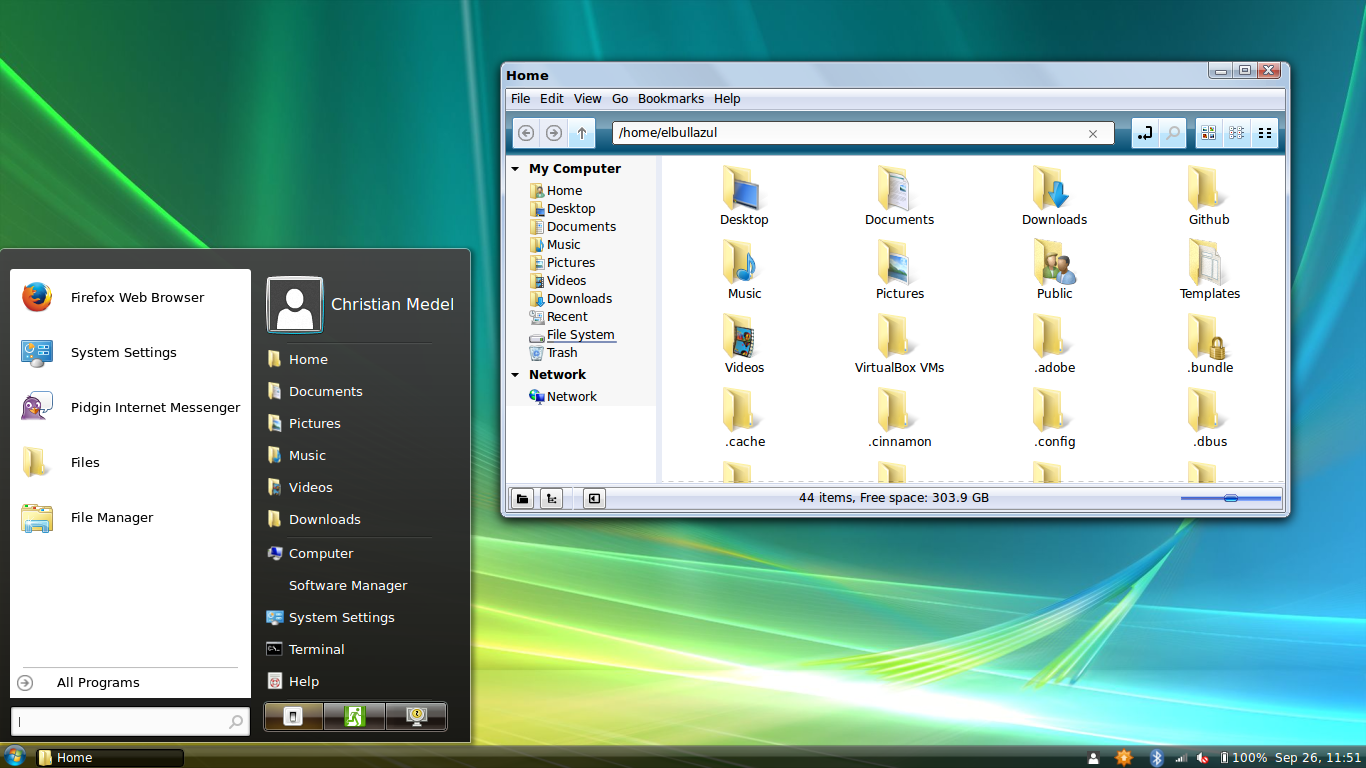
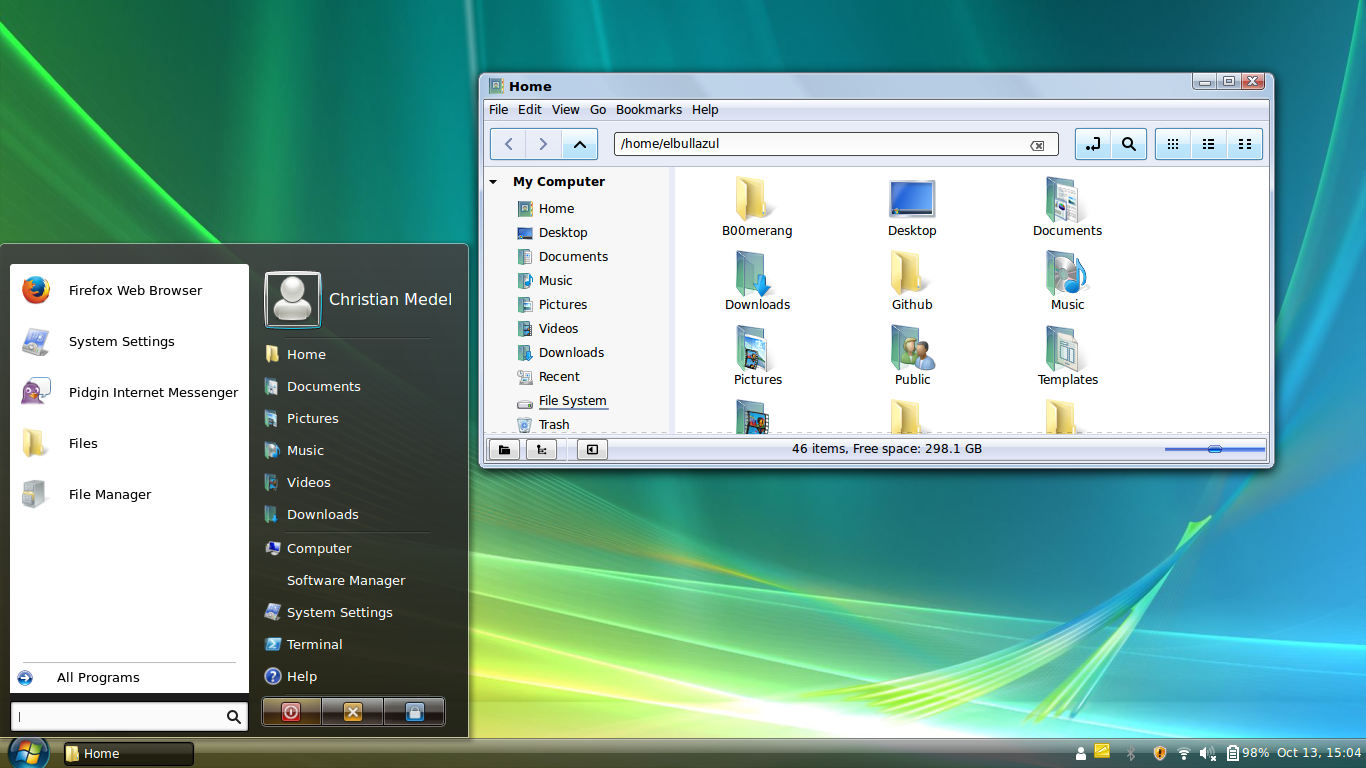
GTK corrections Vista

diff --git a/Windows Vista/gtk-3.0/gtk-widgets.css b/Windows Vista/gtk-3.0/gtk-widgets.css
@@ -91,7 +91,7 @@ GtkPaned {
 }
 
 GtkEventBox {
-    background-color: @bg_color;
+    background-color: transparent;
 }
 
 /*********
@@ -129,7 +129,7 @@ GtkAssistant .sidebar {
 .button {
     -GtkWidget-focus-line-width: 0;
 
-    padding: 5px 6px;
+    padding: 5px 10px;
 }
 
 GtkSwitch.slider,
@@ -1668,6 +1668,11 @@ GtkComboBox .menuitem.separator {
     border-width: 0;
 }
 
+/* nemo sidebar padding */
+NemoWindow .sidebar .cell {
+  padding: 2px 2px; 
+}
+
 /**************
  * spinbutton *
  **************/
@@ -1964,14 +1969,7 @@ GtkTextView {
 GtkWindow > GtkVBox > .dock,
 GtkWindow > GtkVBox > .dock > GtkHBox > GtkToolbar  {
     -GtkWidget-window-dragging: true;
-	background-image: -gtk-gradient (linear,
-                                     left top, left bottom,
-                                     from (shade (#5d7e91, 1.05)),
-                                     color-stop (0.4, shade (#82aac0, 1.00)),
-                                     color-stop (0.41, shade (#427f9f, 1.00)),
-                                     color-stop (0.89, shade (#054f73, 1.00)),
-                                     color-stop (0.98, shade (#4790a6, 1.00)),
-                                     to (shade (#5e8896, 1.05)));
+    background-image: none;
     border-bottom-color: #b6bccc;
     border-top-color: #f4f7fc;
     border-style: solid;
@@ -2247,7 +2245,15 @@ GtkViewport.frame {
     padding: 2px;
 }
 
+.popover .menuitem {
+    border-image: none;
+}
 
+.popover .menuitem:hover,
+.popover .menuitem *:hover {
+    border-image: none;
+    background-color: @selected_bg_color;
+}
 
 /*****************************************************************************
  * states [please keep this section at the end of the file (CSS precedence)] *

diff --git a/Windows Vista/cinnamon/cinnamon.css b/Windows Vista/cinnamon/cinnamon.css
@@ -1480,8 +1480,8 @@ StScrollBar StButton#hhandle:focus {
     -arrow-rise: -1px;
     border: 1px solid rgba(255,255,255,0.5);
     background-gradient-direction: vertical;
-    background-gradient-start: rgba(70,70,70,.95);
-    background-gradient-end: rgba(20,20,20,.95);
+    background-gradient-start: rgba(70,70,70,.85);
+    background-gradient-end: rgba(20,20,20,.85);
     box-shadow: 2px 2px 5px 3px rgba(0,0,0,0.5);
     border-radius: 6px 6px 0px 0px;
     border-radius-bottomright: 0px;
@@ -1655,8 +1655,9 @@ StScrollBar StButton#hhandle:focus {
 
 .window-list-item-box {
 	background: transparent;
-	transition-duration: 200;	color: #FFF; max-width: 134px;
-
+	transition-duration: 200;
+	color: #FFF;
+    max-width: 134px;
 }
 
 .window-list-item-box {
